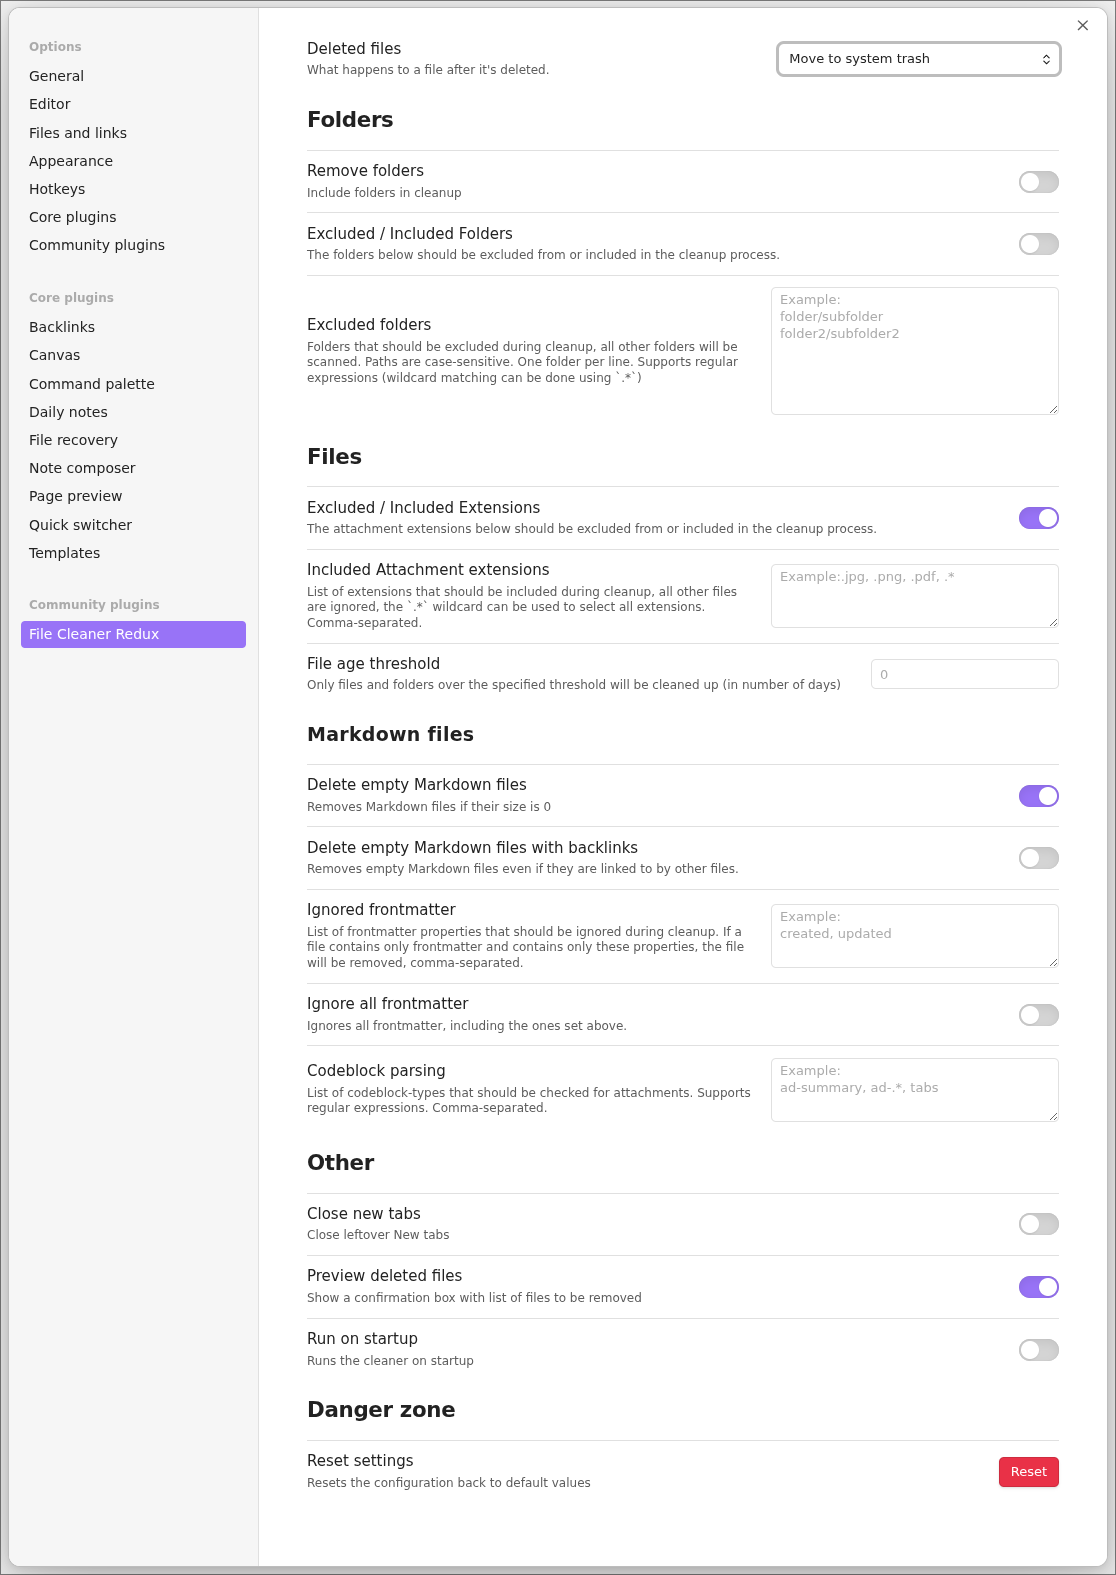
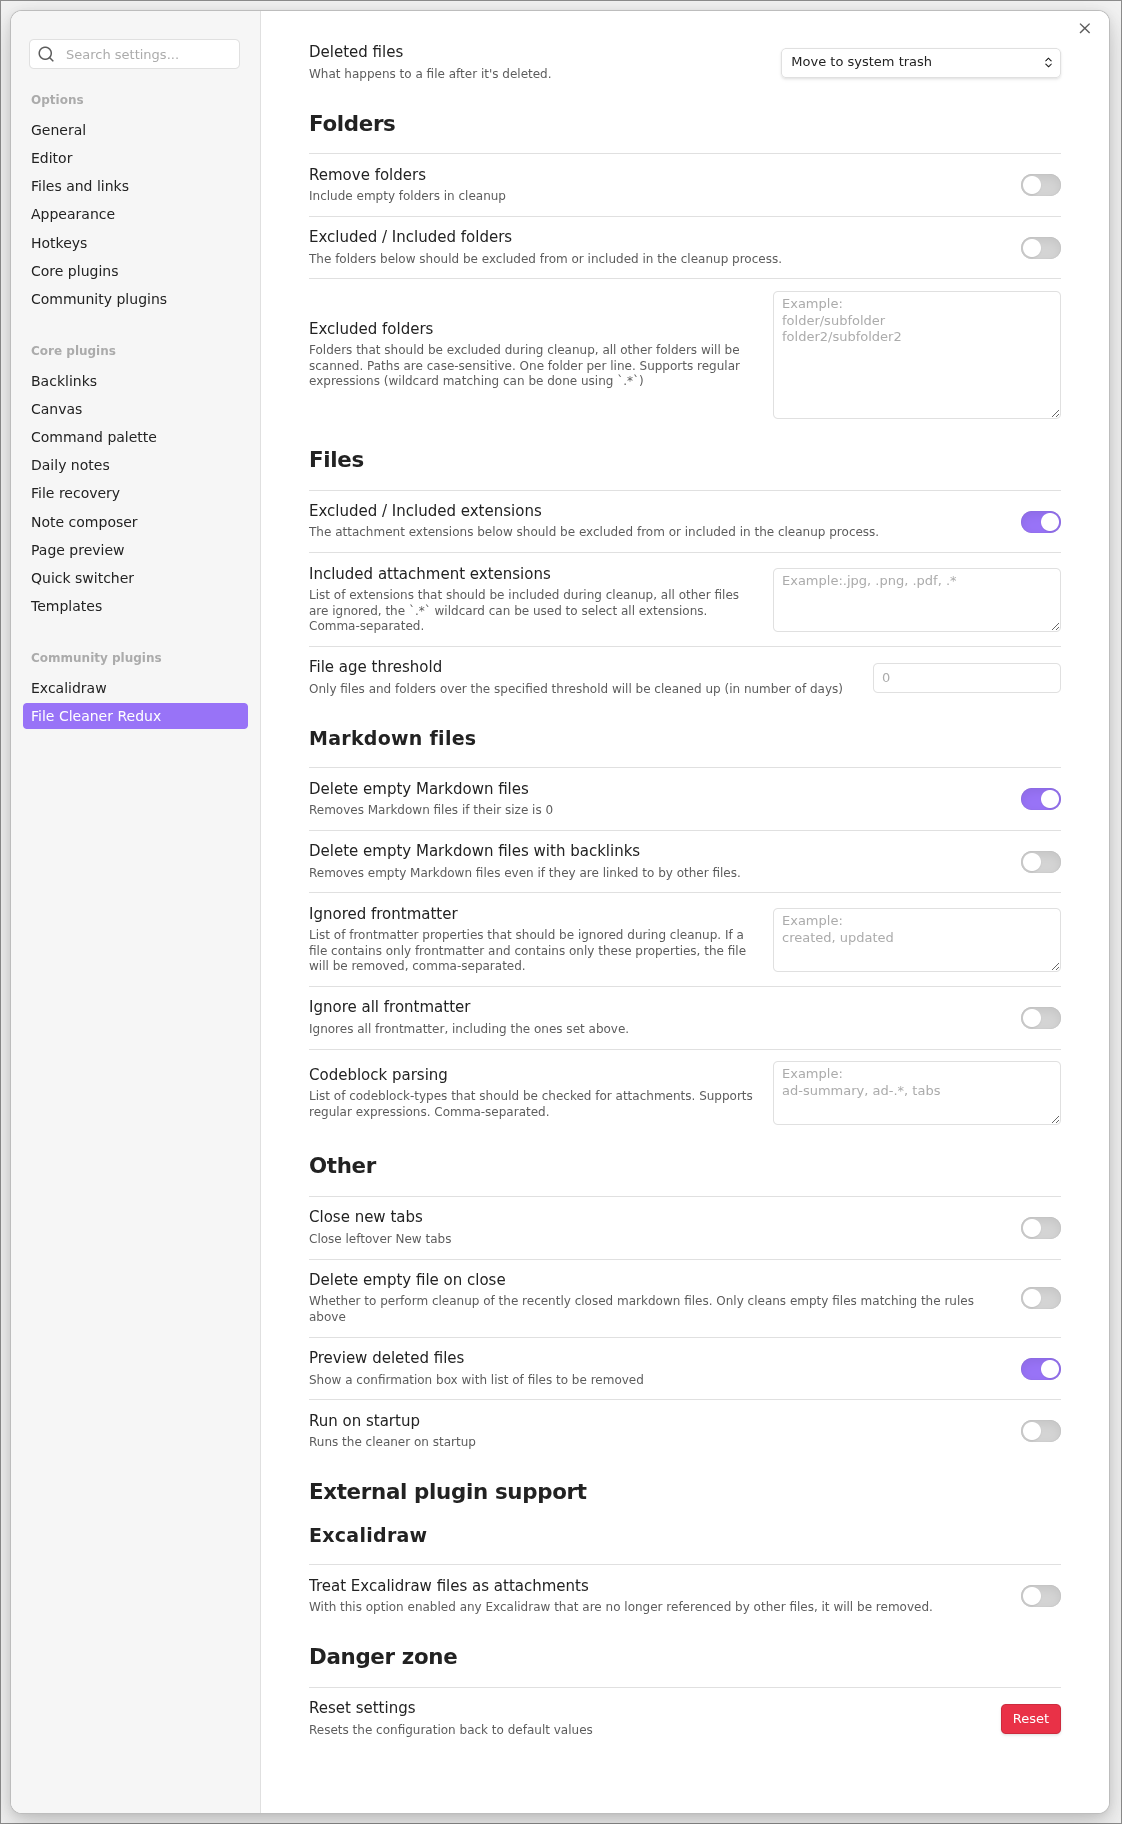
Add: Option for treating Excalidraw files as attachments (#132)
* feat(i18n): added entry for Excalidraw

* feat(FileCleanerSettings): added settings for ExternalPlugins.Excalidraw.TreatAsAttachments (default false)

* feat(supportedPlugins): added excalidraw

* feat(FileCleanerSettingsTab): added section for Excalidraw

* feat(checkExcalidraw): added check for TreatAsAttachment and delete file if set and file has no references

* chore(images): updated Options.png

* chore(README): added entries for Excalidraw

diff --git a/src/settings.ts b/src/settings.ts
@@ -24,7 +24,11 @@ export interface FileCleanerSettings {
   closeNewTabs: boolean;
   deleteEmptyFileOnClose: boolean;
 
-  ExternalPlugins: {};
+  ExternalPlugins: {
+    Excalidraw: {
+      TreatAsAttachments: boolean;
+    };
+  };
 }
 export enum ExcludeInclude {
   Exclude = Number(false),
@@ -50,11 +54,16 @@ export const DEFAULT_SETTINGS: FileCleanerSettings = {
   closeNewTabs: false,
   deleteEmptyFileOnClose: false,
 
-  ExternalPlugins: {},
+  ExternalPlugins: {
+    Excalidraw: {
+      TreatAsAttachments: false,
+    },
+  },
 };
 
 const supportedPlugins = new Set([
   // plugin IDs goes here
+  "obsidian-excalidraw-plugin",
 ]);
 
 export class FileCleanerSettingTab extends PluginSettingTab {
@@ -479,6 +488,36 @@ export class FileCleanerSettingTab extends PluginSettingTab {
       this.containerEl.createEl("h3", {
         text: translate().Settings.ExternalPluginSupport.Header,
       });
+
+      // #region Excalidraw
+      if (userHasPlugin("obsidian-excalidraw-plugin", this.app)) {
+        this.containerEl.createEl("h4", {
+          text: translate().Settings.ExternalPluginSupport.Excalidraw.Header,
+        });
+
+        new Setting(containerEl)
+          .setName(
+            translate().Settings.ExternalPluginSupport.Excalidraw
+              .TreatAsAttachments.Label,
+          )
+          .setDesc(
+            translate().Settings.ExternalPluginSupport.Excalidraw
+              .TreatAsAttachments.Description,
+          )
+          .addToggle((toggle) => {
+            toggle.setValue(
+              this.plugin.settings.ExternalPlugins.Excalidraw
+                .TreatAsAttachments,
+            );
+
+            toggle.onChange((value) => {
+              this.plugin.settings.ExternalPlugins.Excalidraw.TreatAsAttachments =
+                value;
+              this.plugin.saveSettings();
+            });
+          });
+      }
+      // #endregion Excalidraw
     }
     // #endregion External Plugin Options
 

diff --git a/src/helpers/extras/excalidraw.ts b/src/helpers/extras/excalidraw.ts
@@ -1,11 +1,16 @@
 import { App, TFile } from "obsidian";
+import type { FileCleanerSettings } from "src/settings";
 
 interface ExcalidrawElement {
   id: string;
   isDeleted: boolean;
 }
 
-export async function checkExcalidraw(file: TFile, app: App) {
+export async function checkExcalidraw(
+  file: TFile,
+  app: App,
+  settings: FileCleanerSettings,
+) {
   const metadata = app.metadataCache;
 
   const frontmatter = metadata.getFileCache(file).frontmatter;
@@ -20,6 +25,9 @@ export async function checkExcalidraw(file: TFile, app: App) {
   const links = metadata.getBacklinksForFile(file).keys();
 
   if (links.length > 0) return false;
+
+  // Only delete excalidraw files that have no references if TreatAsAttachments is enabled
+  if (settings.ExternalPlugins.Excalidraw.TreatAsAttachments) return true;
 
   const content = await app.vault.cachedRead(file);
 

diff --git a/src/locales/en.ts b/src/locales/en.ts
@@ -147,6 +147,16 @@ const enUS: Locale = {
 
     ExternalPluginSupport: {
       Header: "External plugin support",
+
+      Excalidraw: {
+        Header: "Excalidraw",
+
+        TreatAsAttachments: {
+          Label: "Treat Excalidraw files as attachments",
+          Description:
+            "With this option enabled any Excalidraw that are no longer referenced by other files, will be removed.",
+        },
+      },
     },
 
     DangerZone: {

diff --git a/src/locales/locale.d.ts b/src/locales/locale.d.ts
@@ -123,6 +123,15 @@ export interface Locale {
 
     ExternalPluginSupport: {
       Header: string;
+
+      Excalidraw: {
+        Header: string;
+
+        TreatAsAttachments: {
+          Label: string;
+          Description: string;
+        };
+      };
     };
 
     DangerZone: {

diff --git a/src/util.ts b/src/util.ts
@@ -34,7 +34,7 @@ async function checkFile(
   if (file.extension === "md") {
     if (
       userHasPlugin("obsidian-excalidraw-plugin", app) &&
-      (await checkExcalidraw(file, app))
+      (await checkExcalidraw(file, app, settings))
     )
       return true;
 

diff --git a/README.md b/README.md
@@ -113,6 +113,16 @@ Shows a confirmation box with list of files and folders to be removed (see [scre
 
 Runs the cleaner on startup
 
+### External Plugin Support
+
+Only visible if any of the supported plugins are enabled, currently only Excalidraw
+
+#### Excalidraw
+
+##### Treat Excalidraw files as attachments
+
+With this option enabled any Excalidraw that are no longer referenced by other files, will be removed.
+
 ## How to use the plugin
 
 - Click the "File Cleaner" ribbon icon or add a Keybinding for the `Clean files` command.
